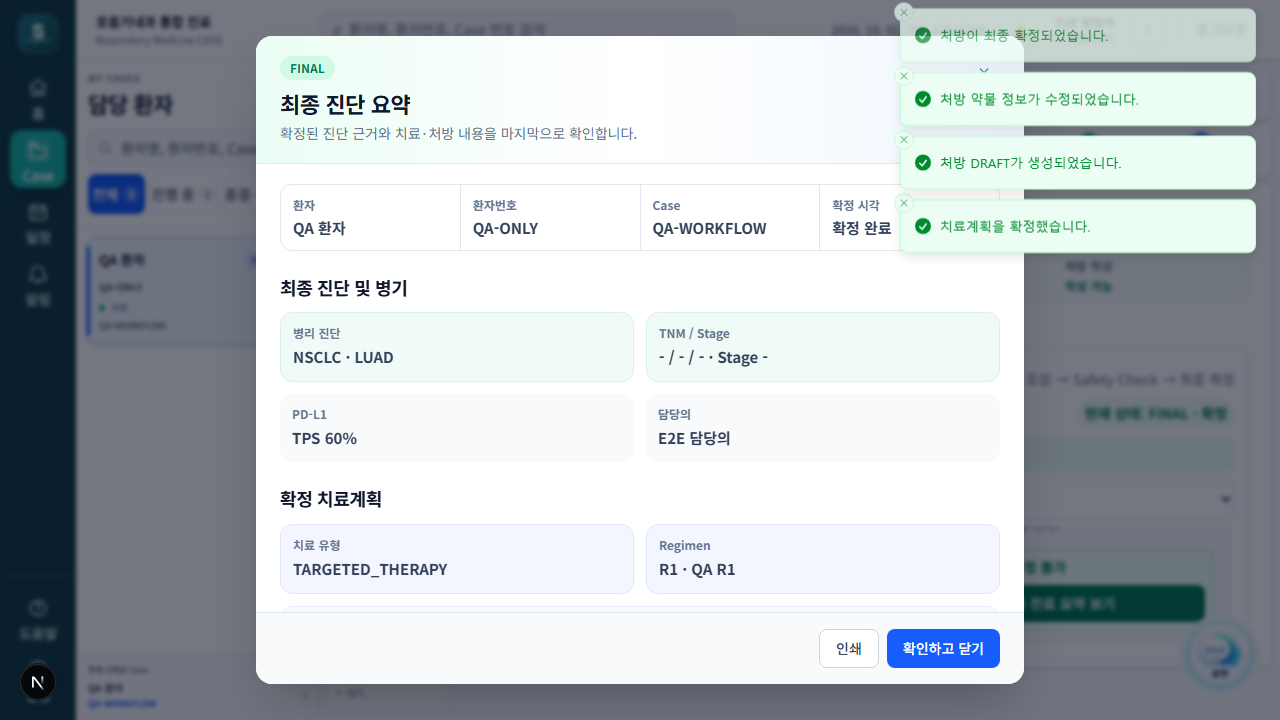
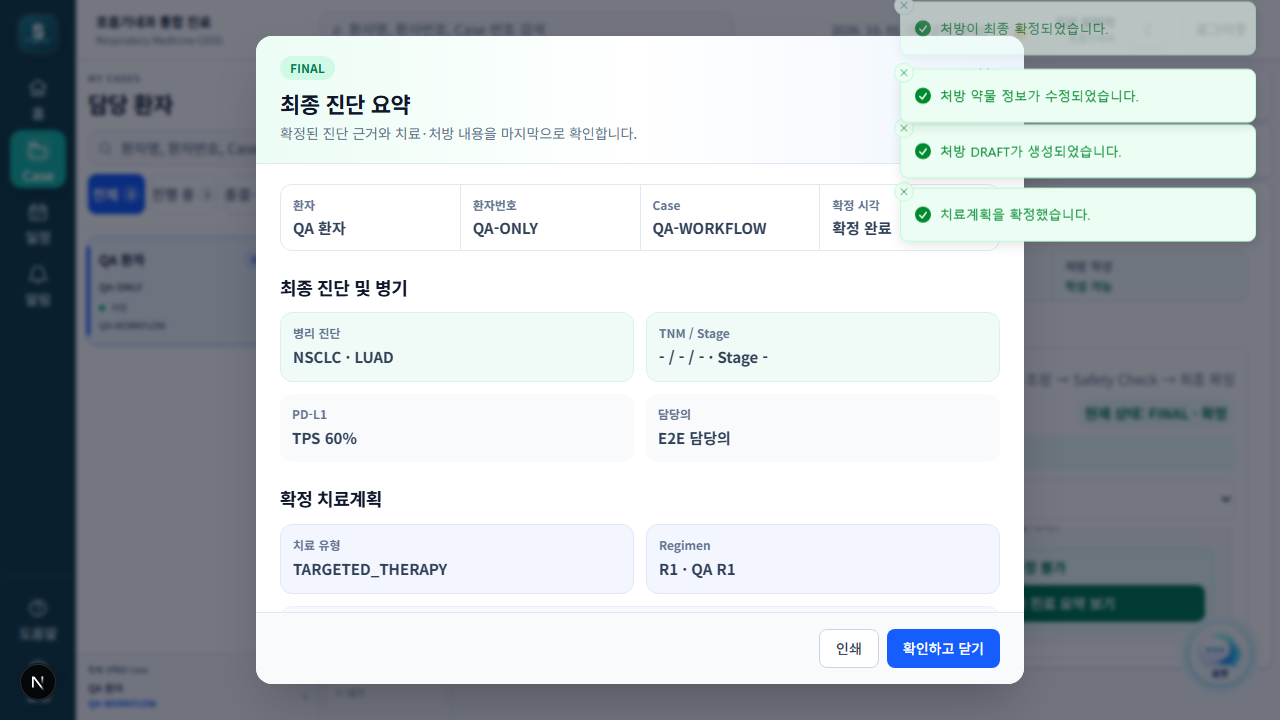
CI 에러 및 배포설정

Changed region(s): [[0.6875, 0.0, 1.0, 0.3667], [0.6875, 0.0917, 0.7188, 0.1222]]

diff --git a/frontend/e2e/workflow-audit.spec.ts b/frontend/e2e/workflow-audit.spec.ts
@@ -62,7 +62,7 @@ test("login through gene review, PD-L1, saved R1, safety and FINAL", async ({ pa
   await page.getByRole("button", { name: "처방 시작", exact: true }).click();
   await page.getByRole("combobox", { name: "Cycle 시작일", exact: true }).click();
   await page.getByRole("dialog", { name: "Cycle 시작일 선택", exact: true }).getByRole("button", { name: "오늘", exact: true }).click();
-  await page.getByRole("button", { name: "처방 생성", exact: true }).click();
+  await page.getByRole("button", { name: "처방 초안 생성", exact: true }).click();
   await expect(page.getByRole("button", { name: "처방 최종 확정", exact: true })).toHaveCount(0);
   await page.getByLabel("QA medication 최종 용량").fill("75");
   await page.getByRole("button", { name: "수정 저장", exact: true }).click();
